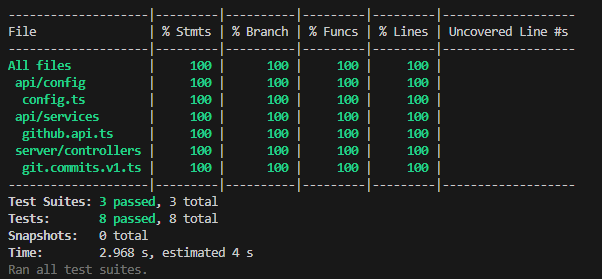
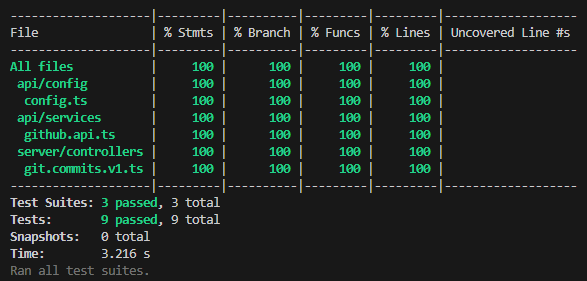
Fix (Server) Added version and pagination for the commits endpoint. Close #3

Changed region(s): [[0.0, 0.0287, 0.9813, 1.0]]

diff --git a/packages/server/src/tests/git.commits.v1.test.ts b/packages/server/src/tests/git.commits.v1.test.ts
@@ -1,6 +1,6 @@
 import { HttpStatusCode } from 'axios'
 import { type Request, type Response } from 'express'
-import { getGithubCommits } from '../api/services/github.api'
+import { type GitCommitParams, getGithubCommits } from '../api/services/github.api'
 import { commitHandler } from '../server/controllers/git.commits.v1'
 
 jest.mock('../api/services/github.api')
@@ -10,6 +10,10 @@ describe('commitHandler', () => {
     params: {
       owner: 'testOwner',
       repo: 'testRepo'
+    },
+    query: {
+      page: '1',
+      per_page: '10'
     }
   } as unknown as Request
 
@@ -21,7 +25,15 @@ describe('commitHandler', () => {
   const gitHub = {
     baseUrl: 'https://api.github.com',
     reposSegment: 'repos',
-    commitSegment: 'commits'
+    commitSegment: 'commits',
+    version: '2022-11-28'
+  }
+
+  const params: GitCommitParams = {
+    owner: 'testOwner',
+    repo: 'testRepo',
+    page: '1',
+    per_page: '10'
   }
 
   it('should call getGithubCommits and return the response data', async () => {
@@ -35,11 +47,11 @@ describe('commitHandler', () => {
 
     const { status: statusCode, json: jsonResponse } = res
 
-    expect(getGithubCommits).toHaveBeenCalledWith('testOwner', 'testRepo', gitHub)
+    expect(getGithubCommits).toHaveBeenCalledWith(params, gitHub)
     expect(statusCode).toHaveBeenCalledWith(HttpStatusCode.Ok)
     expect(jsonResponse).toHaveBeenCalledWith(expectedResponse.data)
   })
-
+  
   it('should handle errors and return the error message', async () => {
     const errorMessage = 'Request failed'
     const expectedError = new Error(errorMessage)
@@ -49,7 +61,7 @@ describe('commitHandler', () => {
     await commitHandler(req, res)
     const { status: statusCode, json: jsonResponse } = res
 
-    expect(getGithubCommits).toHaveBeenCalledWith('testOwner', 'testRepo', gitHub)
+    expect(getGithubCommits).toHaveBeenCalledWith(params, gitHub)
     expect(statusCode).toHaveBeenCalledWith(HttpStatusCode.InternalServerError)
     expect(jsonResponse).toHaveBeenCalledWith(errorMessage)
   })
@@ -62,10 +74,60 @@ describe('commitHandler', () => {
     await commitHandler(req, res)
     const { status: statusCode, json: jsonResponse } = res
 
-    expect(getGithubCommits).toHaveBeenCalledWith('testOwner', 'testRepo', gitHub)
+    expect(getGithubCommits).toHaveBeenCalledWith(params, gitHub)
     expect(statusCode).toHaveBeenCalledWith(HttpStatusCode.InternalServerError)
     expect(jsonResponse).toHaveBeenCalledWith(errorMessage)
   })
 
+  beforeEach(() => {
+    jest.clearAllMocks()
+  })
+
+})
+
+
+describe('commitHandler witouth query_params', () => {
+  const req: Request = {
+    params: {
+      owner: 'testOwner',
+      repo: 'testRepo'
+    },
+    query: {},
+  } as unknown as Request
+
+  const res: Response = {
+    status: jest.fn().mockReturnThis(),
+    json: jest.fn()
+  } as unknown as Response
+
+  const gitHub = {
+    baseUrl: 'https://api.github.com',
+    reposSegment: 'repos',
+    commitSegment: 'commits',
+    version: '2022-11-28'
+  }
+
+  const params: GitCommitParams = {
+    owner: 'testOwner',
+    repo: 'testRepo',
+    page: '1',
+    per_page: '30'
+  }
+
+  it('', async () => {
+    const expectedResponse = {
+      data: [ { commit: {}, url: '' } ]
+    }
+
+    ;(getGithubCommits as jest.Mock).mockResolvedValue(expectedResponse)
+
+    await commitHandler(req, res)
+
+    const { status: statusCode, json: jsonResponse } = res
+
+    expect(getGithubCommits).toHaveBeenCalledWith(params, gitHub)
+    expect(statusCode).toHaveBeenCalledWith(HttpStatusCode.Ok)
+    expect(jsonResponse).toHaveBeenCalledWith(expectedResponse.data)
+  })
   
 })

diff --git a/packages/server/src/tests/github.api.test.ts b/packages/server/src/tests/github.api.test.ts
@@ -1,5 +1,5 @@
 import axios, { type AxiosRequestHeaders, type AxiosResponse } from 'axios'
-import { getGithubCommits } from '../api/services/github.api'
+import { type GitCommitParams, getGithubCommits } from '../api/services/github.api'
 
 jest.mock('axios')
 
@@ -9,11 +9,19 @@ describe('getGithubCommits', () => {
   const gitHub = {
     baseUrl: 'https://api.github.com',
     reposSegment: 'repos',
-    commitSegment: 'commits'
+    commitSegment: 'commits',
+    version: '2022-11-28'
+  }
+
+  const params: GitCommitParams = {
+    owner,
+    repo,
+    page: '1',
+    per_page: '10'
   }
 
   it('should make a GET request to the correct URL', async () => {
-    const expectedUrl = `${gitHub.baseUrl}/${gitHub.reposSegment}/${owner}/${repo}/${gitHub.commitSegment}`
+    const expectedUrl = `${gitHub.baseUrl}/${gitHub.reposSegment}/${owner}/${repo}/${gitHub.commitSegment}?page=1&per_page=10`
     const headers: AxiosRequestHeaders = new axios.AxiosHeaders()
 
     const expectedResponse: AxiosResponse<unknown> = {
@@ -28,12 +36,14 @@ describe('getGithubCommits', () => {
 
     ;(axios.get as jest.Mock).mockResolvedValue(expectedResponse)
 
-    const response = await getGithubCommits(owner, repo, gitHub)
+    const response = await getGithubCommits(params, gitHub)
 
     // eslint-disable-next-line @typescript-eslint/unbound-method
-    expect(axios.get).toHaveBeenCalledWith(expectedUrl)
+    expect(axios.get).toHaveBeenCalledWith(expectedUrl, {"headers": {"X-GitHub-Api-Version": gitHub.version}})
     expect(response).toEqual(expectedResponse)
   })
+
+  
 
   it('should throw an error if the request fails', async () => {
     const errorMessage = 'Request failed'
@@ -41,7 +51,7 @@ describe('getGithubCommits', () => {
 
     ;(axios.get as jest.Mock).mockRejectedValue(expectedError)
 
-    await expect(getGithubCommits(owner, repo, gitHub)).rejects.toThrow(expectedError)
+    await expect(getGithubCommits(params, gitHub)).rejects.toThrow(expectedError)
   })
 
   it('should throw an error if the request fails if instance is not an Error object', async () => {
@@ -50,6 +60,11 @@ describe('getGithubCommits', () => {
 
     ;(axios.get as jest.Mock).mockRejectedValue(errorMessage)
 
-    await expect(getGithubCommits(owner, repo, gitHub)).rejects.toThrow(expectedError)
+    await expect(getGithubCommits(params, gitHub)).rejects.toThrow(expectedError)
   })
+
+  beforeEach(() => {
+    jest.clearAllMocks()
+  })
+  
 })

diff --git a/packages/server/src/api/services/github.api.ts b/packages/server/src/api/services/github.api.ts
@@ -1,12 +1,23 @@
 import axios, { type AxiosResponse } from 'axios'
 import { type GithubParams } from '../config/config.types'
 
-export const getGithubCommits = async (owner: string, repo: string, gitHub: GithubParams): Promise<AxiosResponse<unknown>> => {
+export type GitCommitParams = {
+  owner: string,
+  repo: string,
+  page: string,
+  per_page: string
+}
+
+export const getGithubCommits = async (params: GitCommitParams, gitHub: GithubParams): Promise<AxiosResponse<unknown>> => {
   try {
     const { baseUrl, reposSegment, commitSegment } = gitHub
-    const url: string = `${baseUrl}/${reposSegment}/${owner}/${repo}/${commitSegment}`
+    const url: string = `${baseUrl}/${reposSegment}/${params.owner}/${params.repo}/${commitSegment}?page=${params.page}&per_page=${params.per_page}`
 
-    const response: AxiosResponse = await axios.get(url)
+    const response: AxiosResponse = await axios.get(url, {
+      headers: {
+        'X-GitHub-Api-Version': `${gitHub.version}`,
+      }
+    })
     return response
   } catch (error) {
     const errorMessage: string = (error instanceof Error) ? error.message : String(error)

diff --git a/packages/server/src/tests/config.test.ts b/packages/server/src/tests/config.test.ts
@@ -7,6 +7,7 @@ describe('getConfig', () => {
     process.env.GITHUB_API_BASE_URL = 'http://test.com';
     process.env.GITHUB_URL_SEGMENT_REPOS = '/foo';
     process.env.GITHUB_URL_SEGMENT_COMMITS = '/bar';
+    process.env.GITHUB_API_VERSION = '2022-11-28';
 
     const expectedConfig = {
       service: {
@@ -17,6 +18,7 @@ describe('getConfig', () => {
         baseUrl: 'http://test.com',
         reposSegment: '/foo',
         commitSegment: '/bar',
+        version: "2022-11-28",
       },
     };
 
@@ -31,6 +33,7 @@ describe('getConfig', () => {
     delete process.env.GITHUB_API_BASE_URL;
     delete process.env.GITHUB_URL_SEGMENT_REPOS;
     delete process.env.GITHUB_URL_SEGMENT_COMMITS;
+    delete process.env.GITHUB_API_VERSION;
 
     const expectedConfig = {
       service: {
@@ -41,6 +44,7 @@ describe('getConfig', () => {
         baseUrl: '',
         reposSegment: '',
         commitSegment: '',
+        version: '',
       },
     };
 
@@ -48,4 +52,9 @@ describe('getConfig', () => {
 
     expect(config).toEqual(expectedConfig);
   });
+
+  beforeEach(() => {
+    jest.clearAllMocks()
+  })
+  
 });

diff --git a/packages/server/src/server/controllers/git.commits.v1.ts b/packages/server/src/server/controllers/git.commits.v1.ts
@@ -1,13 +1,31 @@
 import { HttpStatusCode } from 'axios'
 import { getConfig } from '../../api/config/config'
 import { type Request, type Response } from 'express'
-import { getGithubCommits } from '../../api/services/github.api'
+import { GitCommitParams, getGithubCommits } from '../../api/services/github.api'
 
 export async function commitHandler (req: Request, res: Response): Promise<void> {
   try {
     const { owner, repo } = req.params
+    let { page, per_page } = req.query
+
+    if (!page) {
+      page = '1'
+    }
+    if (!per_page) {
+      per_page = '30'
+    }
+
     const gitHub = getConfig().githubApi
-    const response = await getGithubCommits(owner, repo, gitHub)
+
+    const params: GitCommitParams = {
+      owner,
+      repo,
+      page: page.toString(),
+      per_page: per_page.toString()
+    }
+    
+
+    const response = await getGithubCommits(params, gitHub)
     // eslint-disable-next-line @typescript-eslint/no-explicit-any
     const commits = (response.data as unknown[]).map((commit: any) => ({
       commit: commit.commit,

diff --git a/packages/client/src/App.tsx b/packages/client/src/App.tsx
@@ -14,7 +14,7 @@ function CommitsTable() {
   const [error, setError] = useState<string | null>(null);
 
   useEffect(() => {
-    fetch(`${getGitCommitEndpoints()}?per_page=10&page=1`)
+    fetch(`${getGitCommitEndpoints()}?per_page=50&page=1`)
       .then(response => response.json())
       .then(data => setCommits(data))
       .catch(error => setError('Error fetching data. Please wait or refresh the page.'));

diff --git a/packages/server/src/api/config/config.ts b/packages/server/src/api/config/config.ts
@@ -12,7 +12,8 @@ export function getConfig (): ConfigParams {
     githubApi: {
       baseUrl: process.env.GITHUB_API_BASE_URL ?? '',
       reposSegment: process.env.GITHUB_URL_SEGMENT_REPOS ?? '',
-      commitSegment: process.env.GITHUB_URL_SEGMENT_COMMITS ?? ''
+      commitSegment: process.env.GITHUB_URL_SEGMENT_COMMITS ?? '',
+      version: process.env.GITHUB_API_VERSION ?? ''
     }
   }
 }

diff --git a/packages/server/jest.config.ts b/packages/server/jest.config.ts
@@ -11,6 +11,7 @@ const config: Config.InitialOptions = {
         '**/tests/**/*.ts?(x)',
         '**/?(*.)+(spec|test).ts?(x)',
     ],
+    testPathIgnorePatterns: ["/node_modules/", "\\.d\\.ts$"]
 };
 
 export default config;

diff --git a/packages/server/src/api/config/config.types.ts b/packages/server/src/api/config/config.types.ts
@@ -2,6 +2,7 @@ export interface GithubParams {
   baseUrl: string
   reposSegment: string
   commitSegment: string
+  version: string
 }
 
 export interface ServiceParams {
